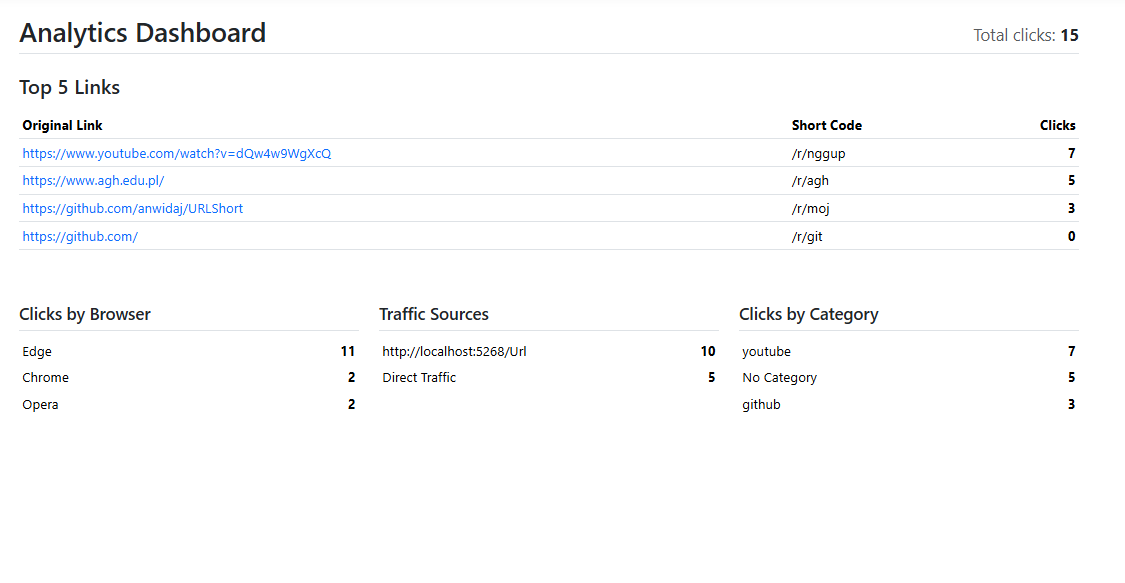
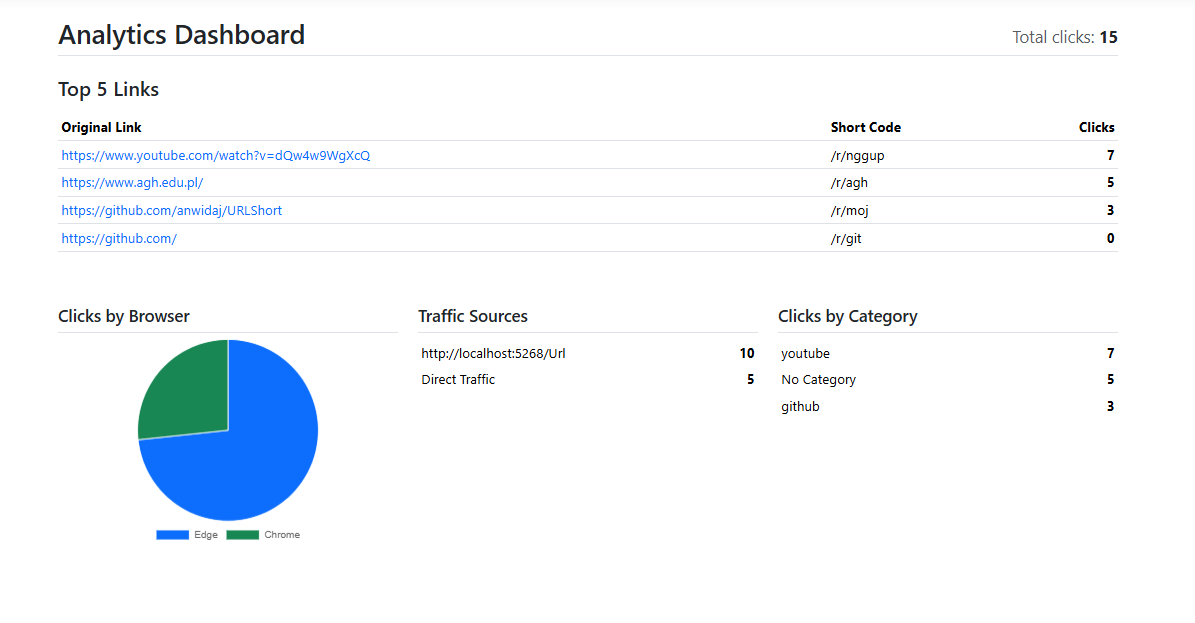
Changed screenshot and adder chart to the web dashboard

diff --git a/URLShort/src/UrlShort.Web/Controllers/StatsController.cs b/URLShort/src/UrlShort.Web/Controllers/StatsController.cs
@@ -34,17 +34,14 @@ public class StatsController : Controller
 
         var allClicks = urls.SelectMany(u => u.Clicks).ToList();
 
-        // Browser parsing
         viewModel.BrowserStats = allClicks
             .GroupBy(c => ParseBrowser(c.UserAgent))
             .ToDictionary(g => g.Key, g => g.Count());
 
-        // Referrer parsing
         viewModel.ReferrerStats = allClicks
             .GroupBy(c => string.IsNullOrWhiteSpace(c.Referrer) ? "Direct" : c.Referrer)
             .ToDictionary(g => g.Key, g => g.Count());
 
-        // Category parsing
         viewModel.CategoryStats = urls
             .SelectMany(u => u.Clicks.Select(c => new { Click = c, CategoryName = u.Category?.Name ?? "No Category" }))
             .GroupBy(x => x.CategoryName)
@@ -56,15 +53,10 @@ public class StatsController : Controller
     private string ParseBrowser(string userAgent)
     {
         if (string.IsNullOrWhiteSpace(userAgent)) return "Unknown";
-        
-        // Browsers built on Chromium often include "Chrome" in their user agent,
-        // so we must check for their specific identifiers BEFORE checking for Chrome.
-        if (userAgent.Contains("OPR") || userAgent.Contains("Opera")) return "Opera";
         if (userAgent.Contains("Edg")) return "Edge";
+        if (userAgent.Contains("Chrome") && !userAgent.Contains("Edg")) return "Chrome";
         if (userAgent.Contains("Firefox")) return "Firefox";
-        if (userAgent.Contains("Chrome")) return "Chrome";
-        if (userAgent.Contains("Safari") && !userAgent.Contains("Chrome") && !userAgent.Contains("Chromium")) return "Safari";
-        
+        if (userAgent.Contains("Safari") && !userAgent.Contains("Chrome")) return "Safari";
         return "Other";
     }
 }